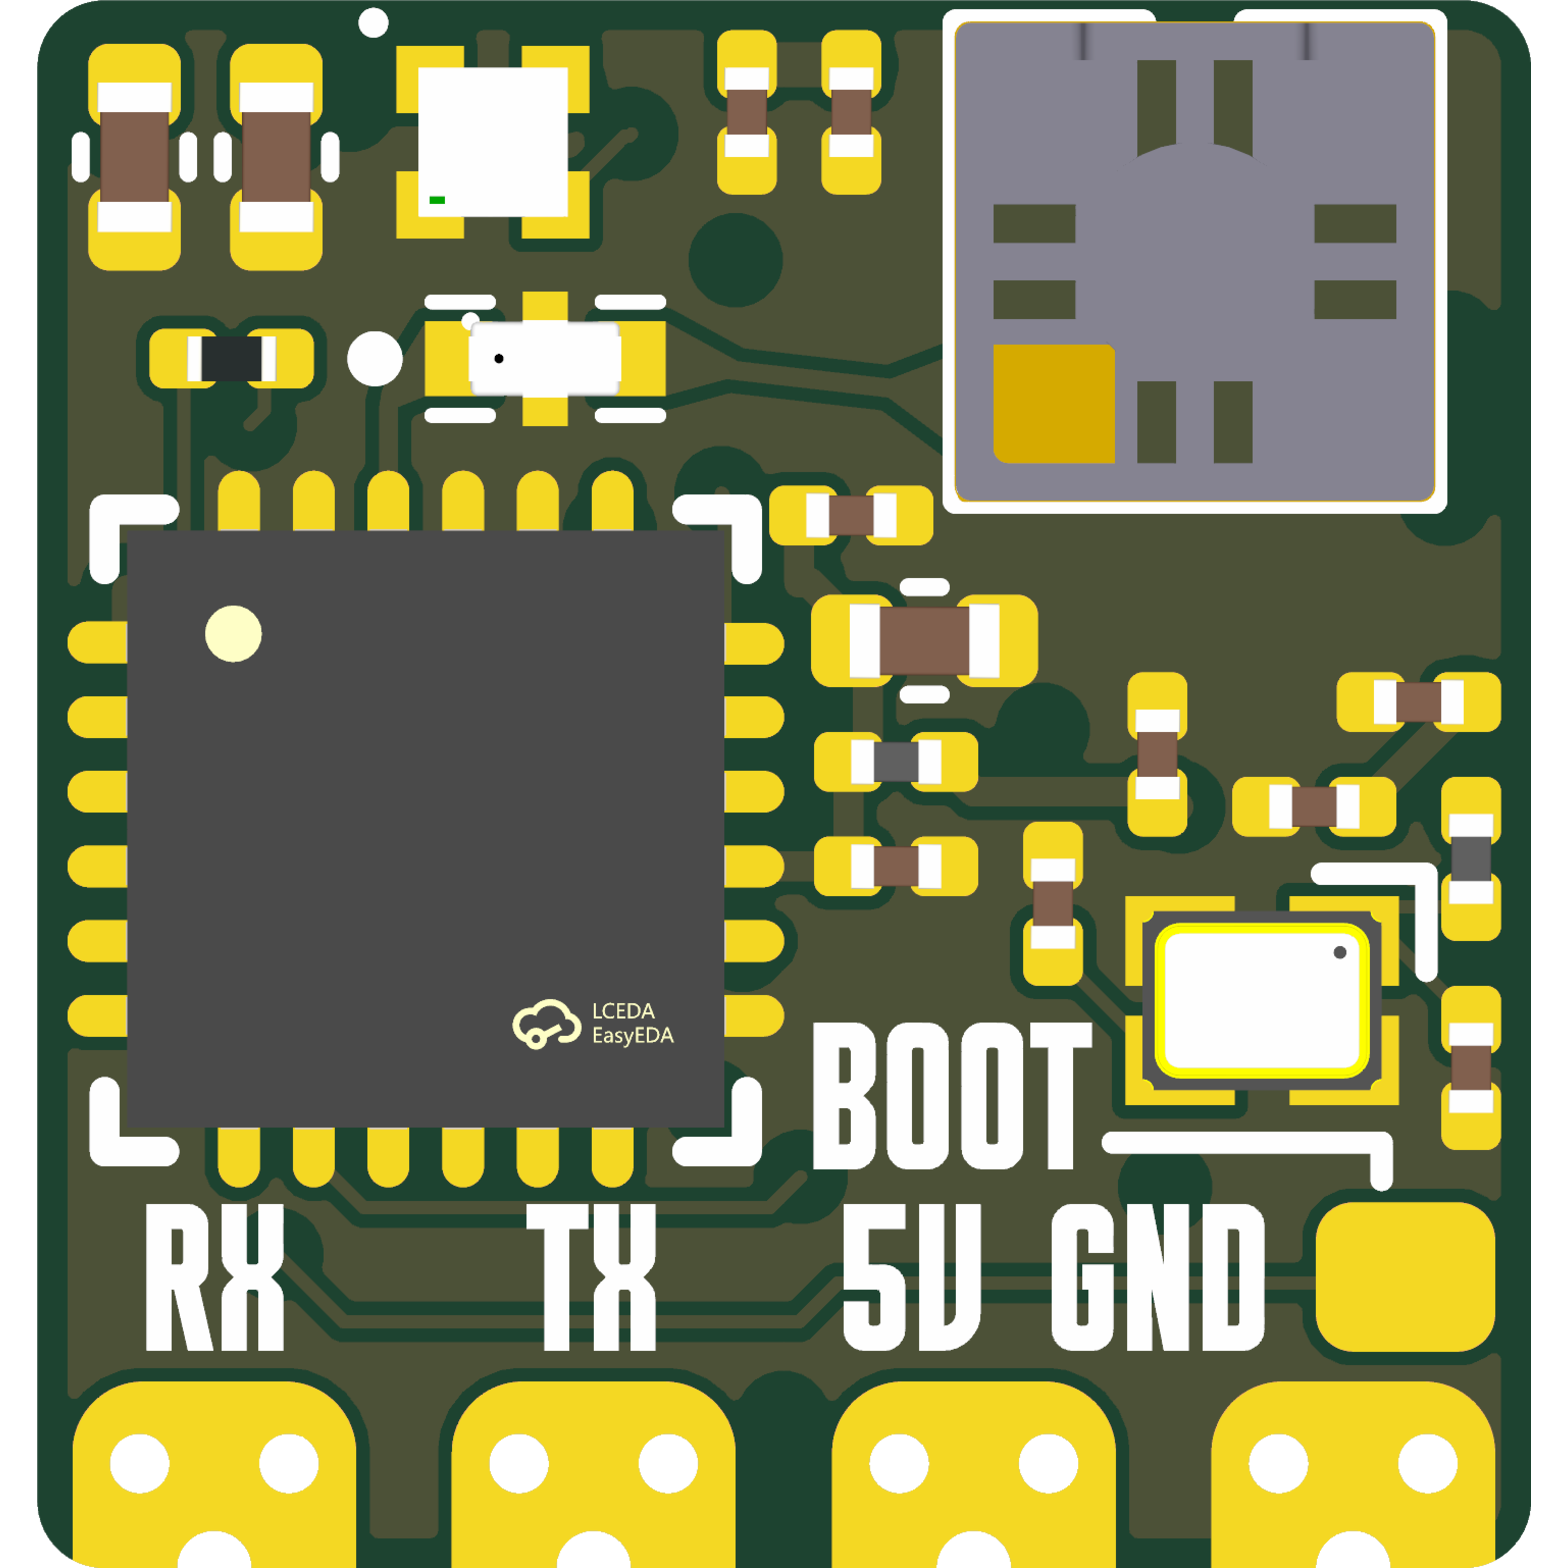
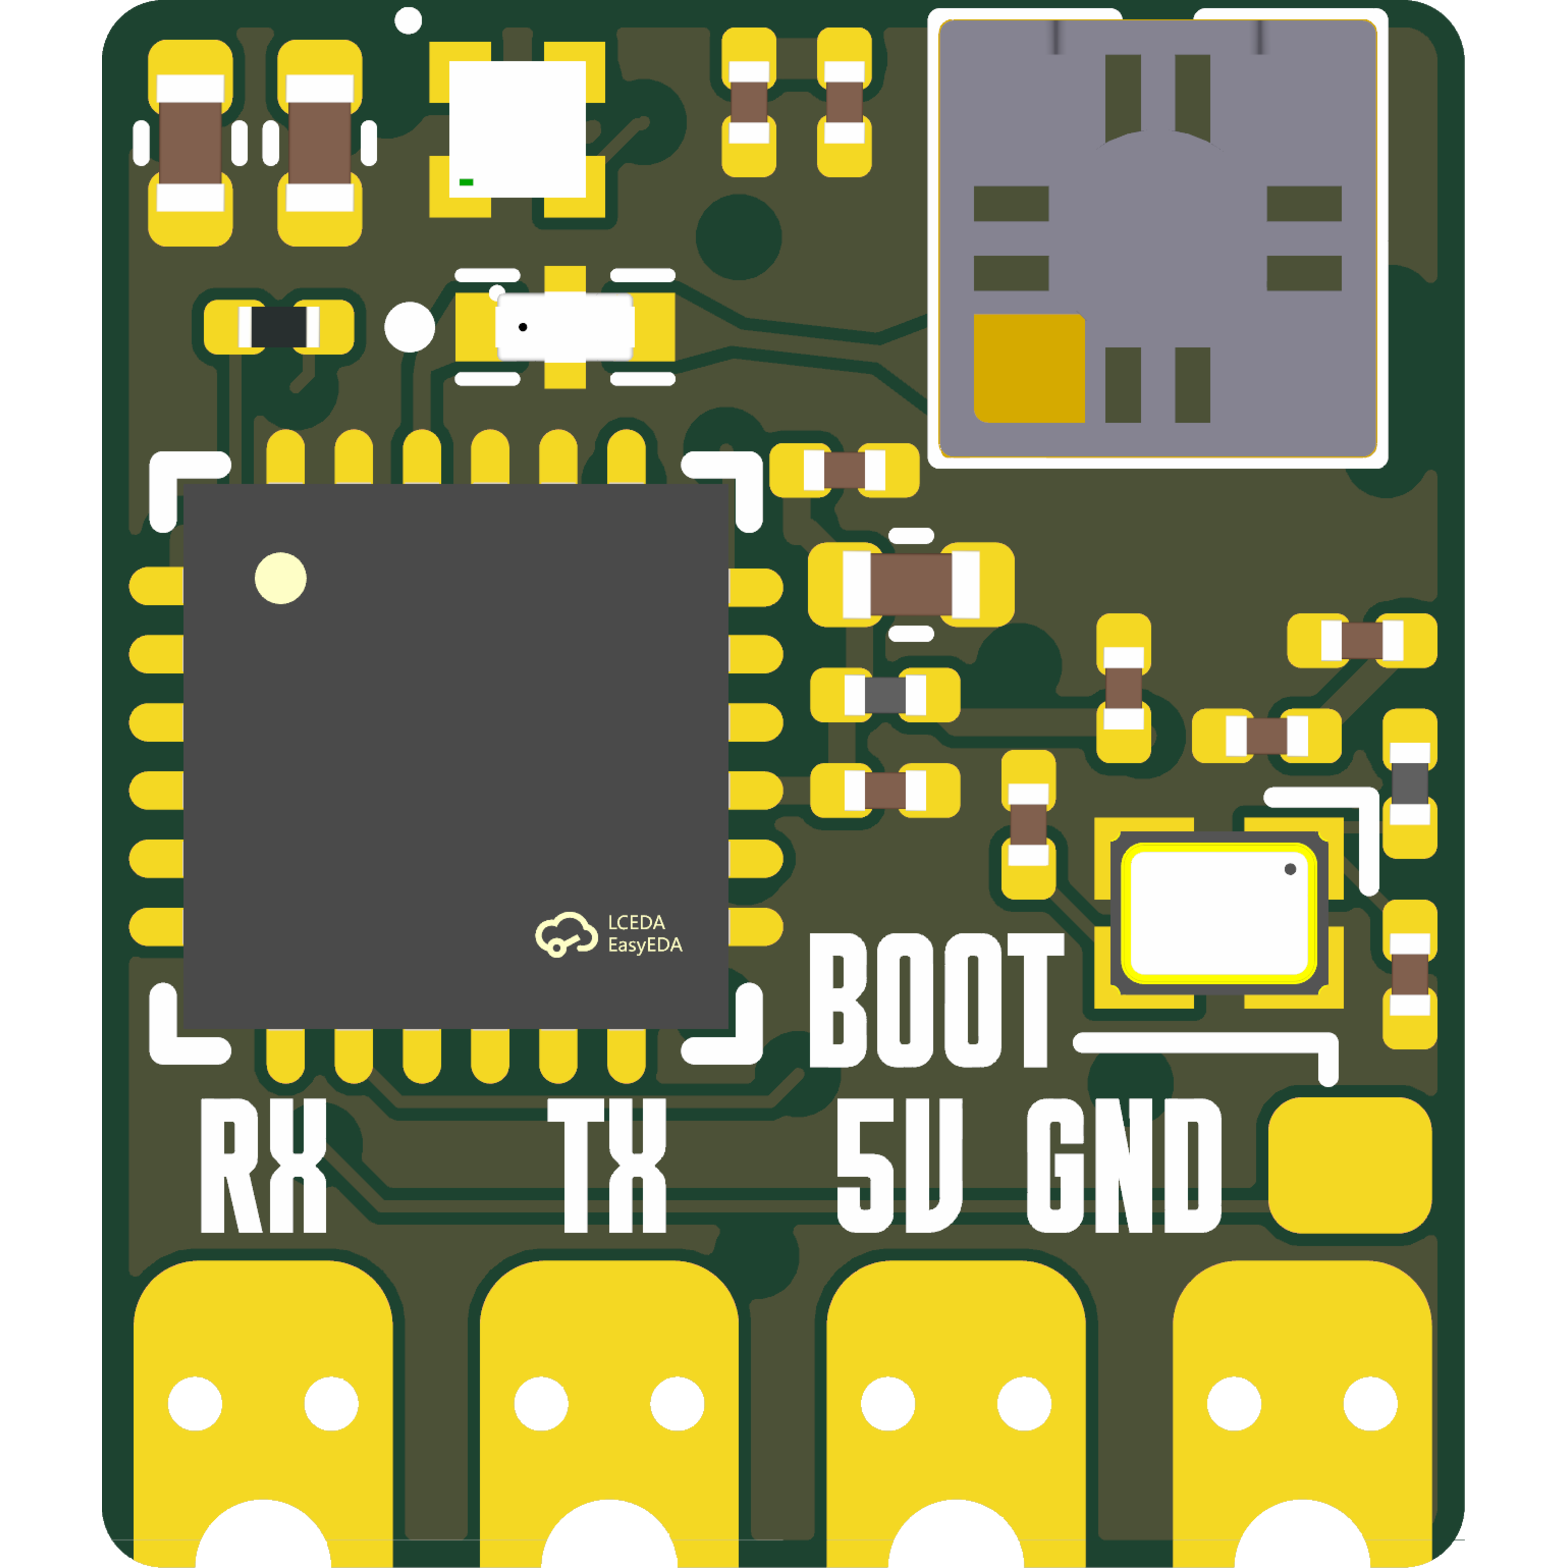
Rev 2 refresh prep: renders, schematic PDFs, revisions
The committed board now matches the verified fab export exactly
(check_export.py C1-C3 clean). Renders regenerated from it.

diff --git a/AGENTS.md b/AGENTS.md
@@ -122,6 +122,11 @@ Symbols and footprints are embedded in the design files. The project lib tables 
 
 ## Revisions
 
+- **2026-08-14**: rev2 fab sets re-exported and verified against board and
+  schematic (`Lite_rev2`, `Lite-UFL_rev2`, `Mono_rev2`, `Gemini_rev2`);
+  Lite-UFL `J1` carries LCSC `C88374` on board and schematic, previously
+  missing from the BOM; E6 substitute STEP models rebuilt from the trusted
+  wrl geometry; schematic PDFs in `exports/schematics/` regenerated.
 - **2026-08-05**: OSHWA certification (BE000030 to BE000033), Lite/Lite-UFL ELRS target pin remap, Mono/Gemini target updates, shared Incutec KiCad-Library submodule wired (2026-08-04). Layout rework (clock 3.3 V supply, enlarged pads, Lite/Lite-UFL and Mono outlines +1.0 mm) landed after the validated build and has not been fabricated.
 - **2026-06-10**: combined `OpenRX-all` fabrication set ordered at JLCPCB (gerbers, BOM, CPL in `OpenRX-Gemini/`).
 - **2026-06-07**: single-source-of-truth docs pass, standardized board renders.
